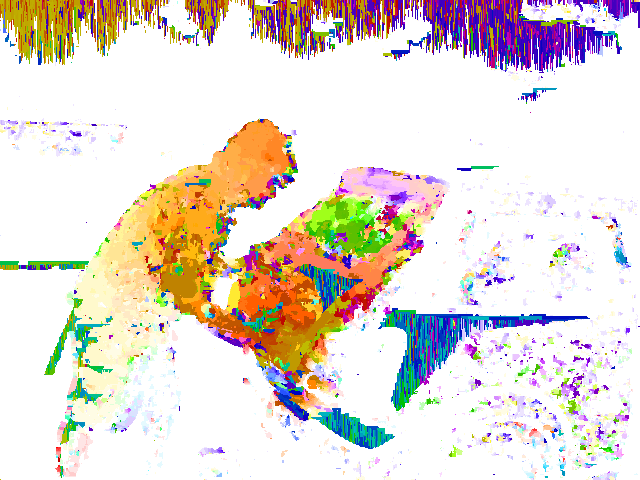
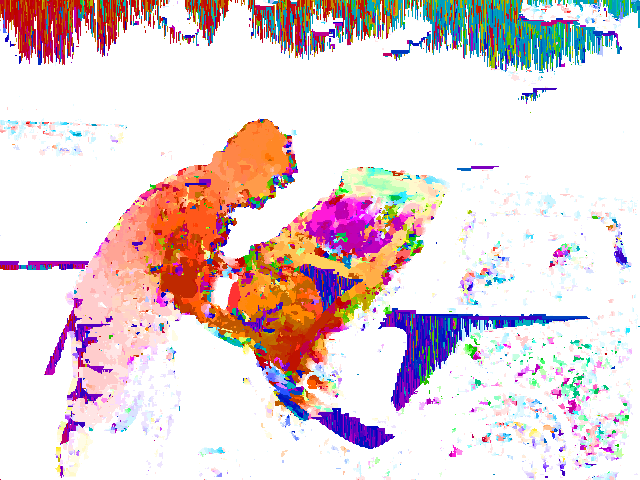
.flo file generation bug fixed

diff --git a/PatchMatch.cpp b/PatchMatch.cpp
@@ -51,14 +51,15 @@ void PatchMatch::PyramidApproach(
         int min_r, 
         int min_c) {
 
-  // compute levels
   int s_r = m_rows;
   int s_c = m_cols;
 
+  // 1) init level vectors
   std::vector<cv::Mat> levels1, levels2;
   levels1.push_back(m_in1);
   levels2.push_back(m_in2);
 
+  // 2) generate levels by iteratively halving original images
   while(s_r>min_r && s_c>min_r) {
     s_r = s_r/2;
     s_c = s_c/2;
@@ -75,9 +76,10 @@ void PatchMatch::PyramidApproach(
   std::reverse(levels1.begin(), levels1.end());
   std::reverse(levels2.begin(), levels2.end());
 
+  // 3) iterate through all levels; starting at the smallest
   cv::Mat matPreviousLevel = InitRandom(levels1[0].rows, levels1[0].cols);
   for(int i=1; i<levels1.size(); i++) {
-    // Propagate from previous level level
+    // 3.1.a) propagate flow vectors from previous level
     cv::Mat matThisLevel(levels1[i].rows, levels1[i].cols, CV_32SC2, cv::Scalar::all(0));
     for(int r=0; r<levels1[i].rows; r++) {
       for(int c=0; c<levels1[i].cols; c++) {
@@ -86,7 +88,7 @@ void PatchMatch::PyramidApproach(
       }
     }
 
-    // PatchMatch on random Initialization
+    // 3.1.b) PatchMatch on random Initialization
     cv::Mat matRandom = InitRandom(levels1[i].rows, levels1[i].cols);
     matRandom = ComputeFlowField(
                   levels1[i], 
@@ -94,12 +96,14 @@ void PatchMatch::PyramidApproach(
                   (i%2!=0)?true:false, 
                   matRandom );
 
+    // 3.2) min(result from 3.1.a, result from 3.1.b)
     cv::Mat flowFieldMin = MinFlowFields(
                             levels1[i], 
                             levels2[i], 
                             matThisLevel, 
                             matRandom );
 
+    // 4) Do 4 iterations of PatchMatch
     cv::Mat matFollow;
     flowFieldMin.copyTo(matFollow);
     for(int j=0; j<=3; j++) {
@@ -110,6 +114,7 @@ void PatchMatch::PyramidApproach(
                     matFollow );
     }
 
+    // 5) update matPreviousLevel for next iteration
     matPreviousLevel = cv::Mat(levels1[i].rows, levels1[i].cols, CV_32SC2, cv::Scalar::all(0));
     matFollow.copyTo(matPreviousLevel); 
 
@@ -427,10 +432,10 @@ void PatchMatch::toFlowFile(
 
   for(int r=0; r<dim_r; r++) {
     for(int c=0; c<dim_c; c++) {
-      float band0 = (float)flowField.at<cv::Vec2i>(r, c)[0];
+      float band0 = (float)flowField.at<cv::Vec2i>(r, c)[1];
       fwrite(&band0, sizeof(float), 1, stream);
 
-      float band1 = (float)flowField.at<cv::Vec2i>(r, c)[1];
+      float band1 = (float)flowField.at<cv::Vec2i>(r, c)[0];
       fwrite(&band1, sizeof(float), 1, stream);
     }
   }

diff --git a/SumOfSquaredDifferences.cpp b/SumOfSquaredDifferences.cpp
@@ -48,7 +48,7 @@ float SumOfSquaredDifferences::ComputeDifference(
   }
 
   if(pixelCount==0)
-    return INT_MAX;
+    return FLT_MAX;
 
   return sum/pixelCount;
 }
